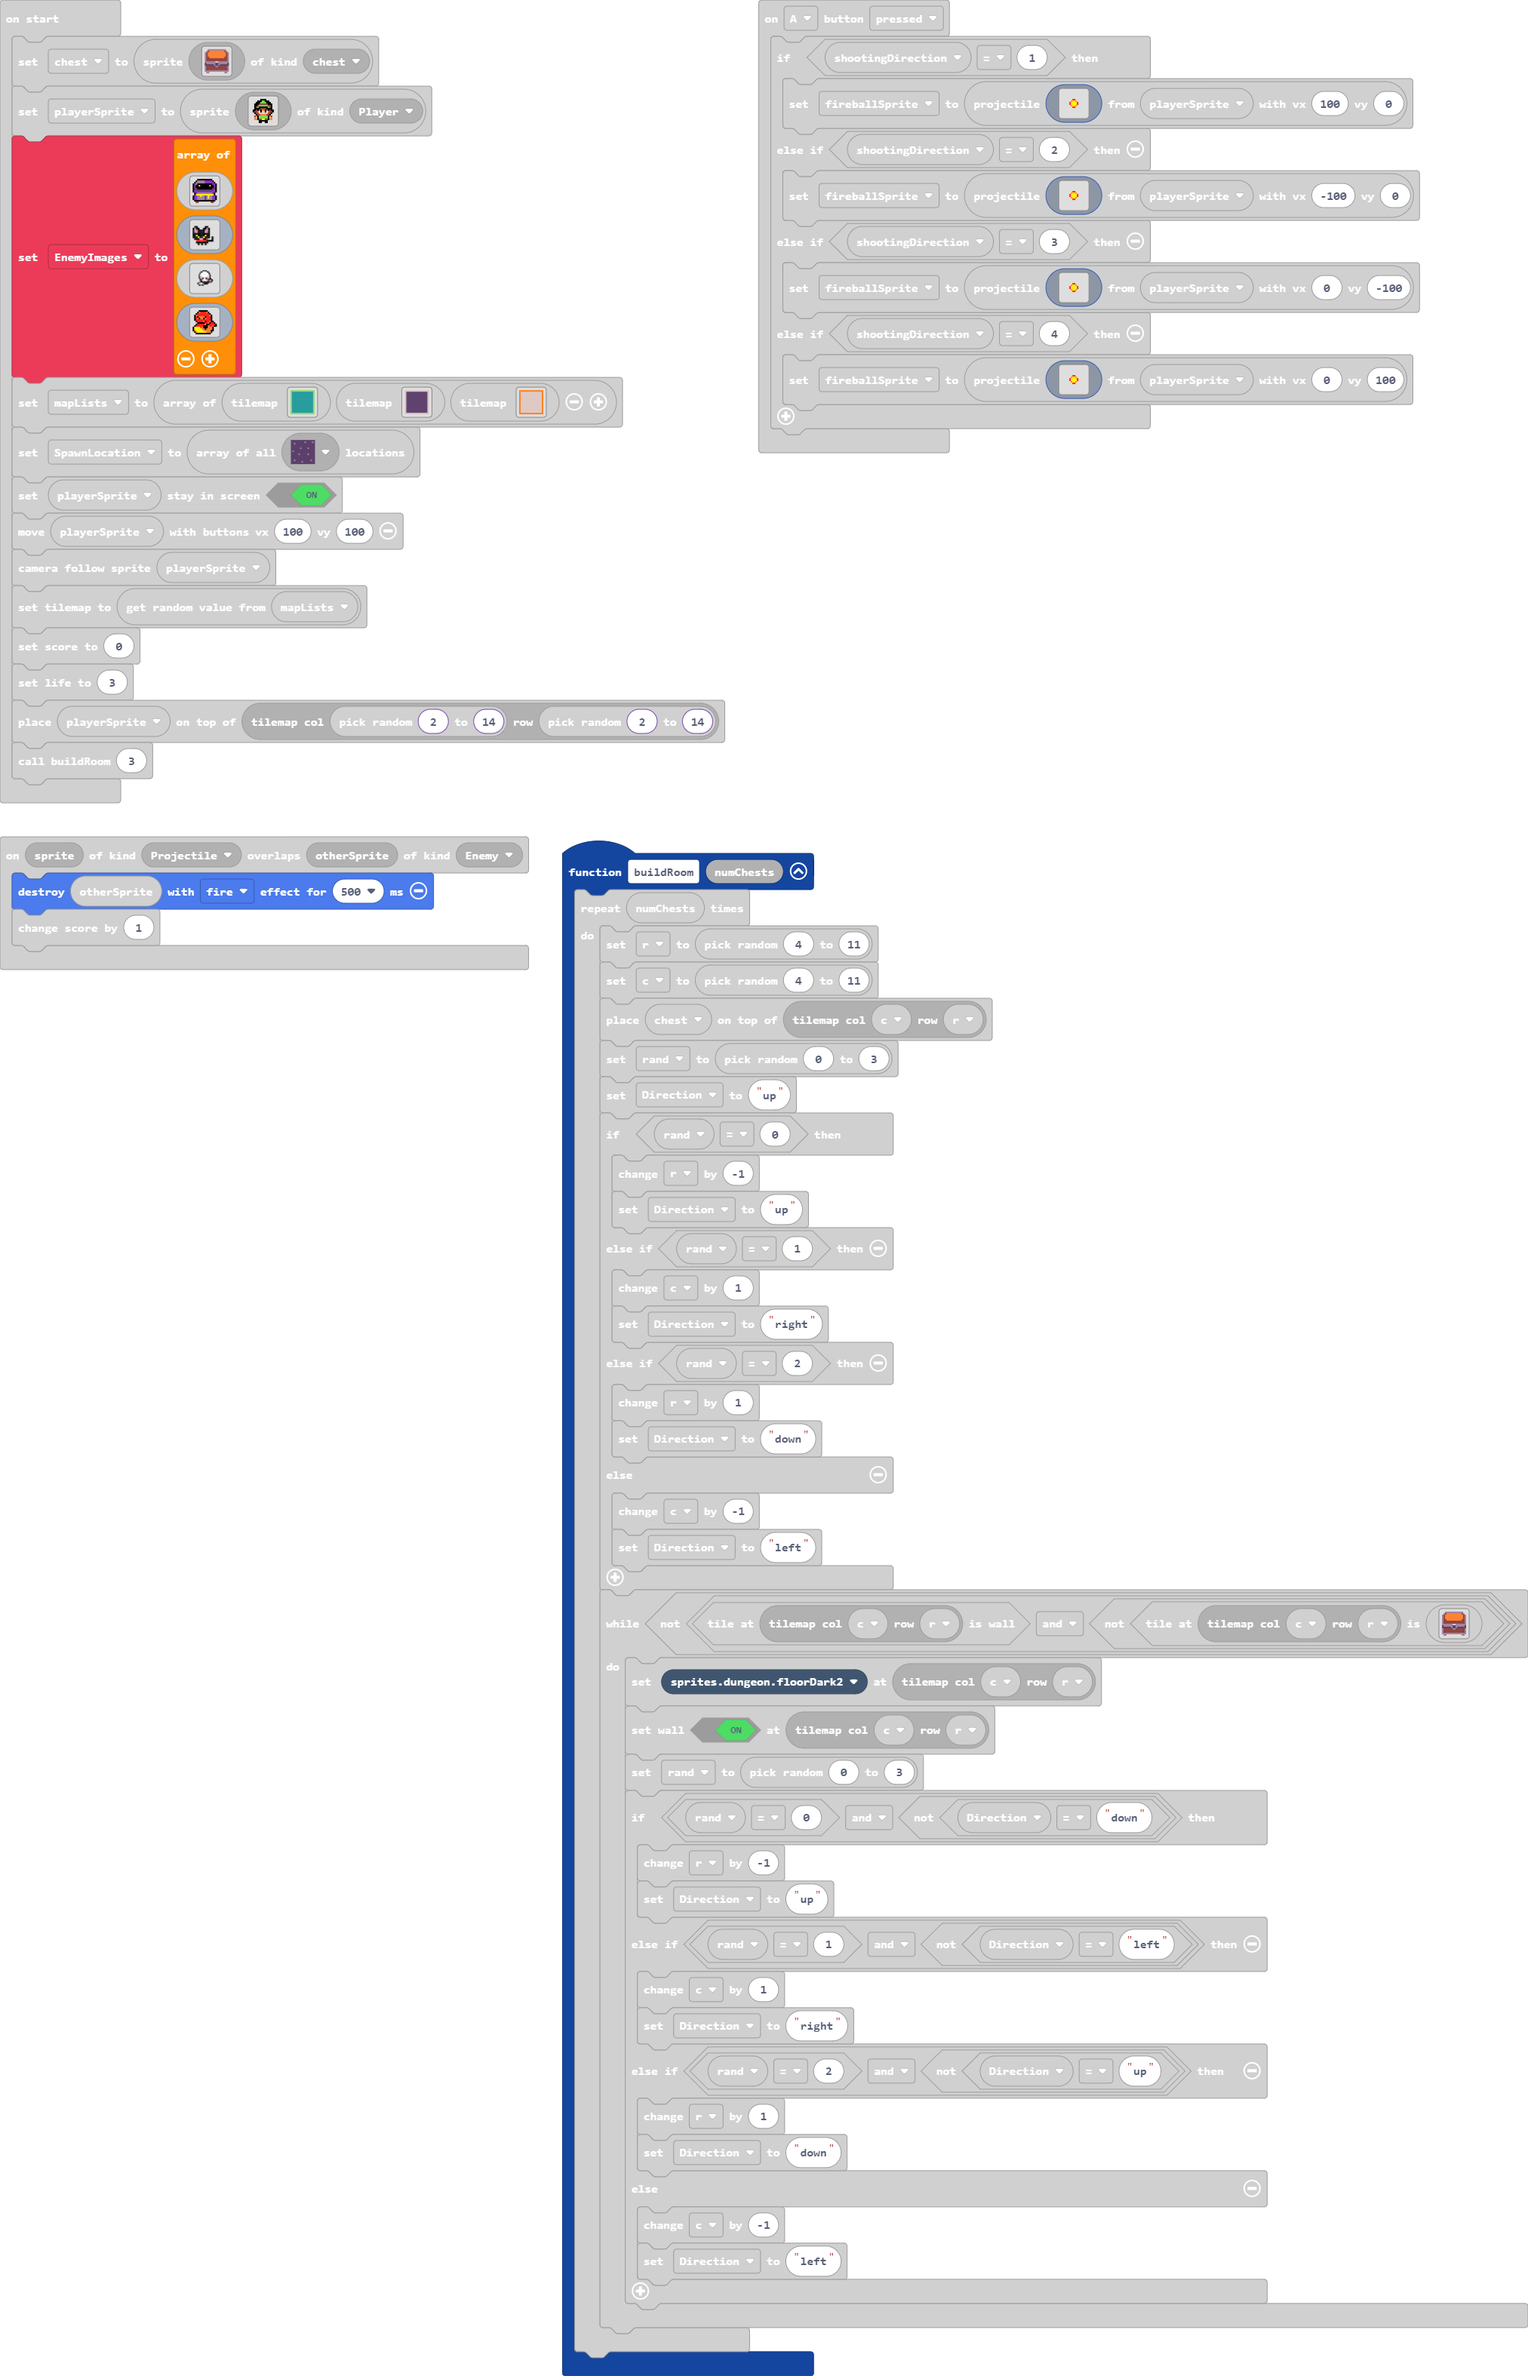
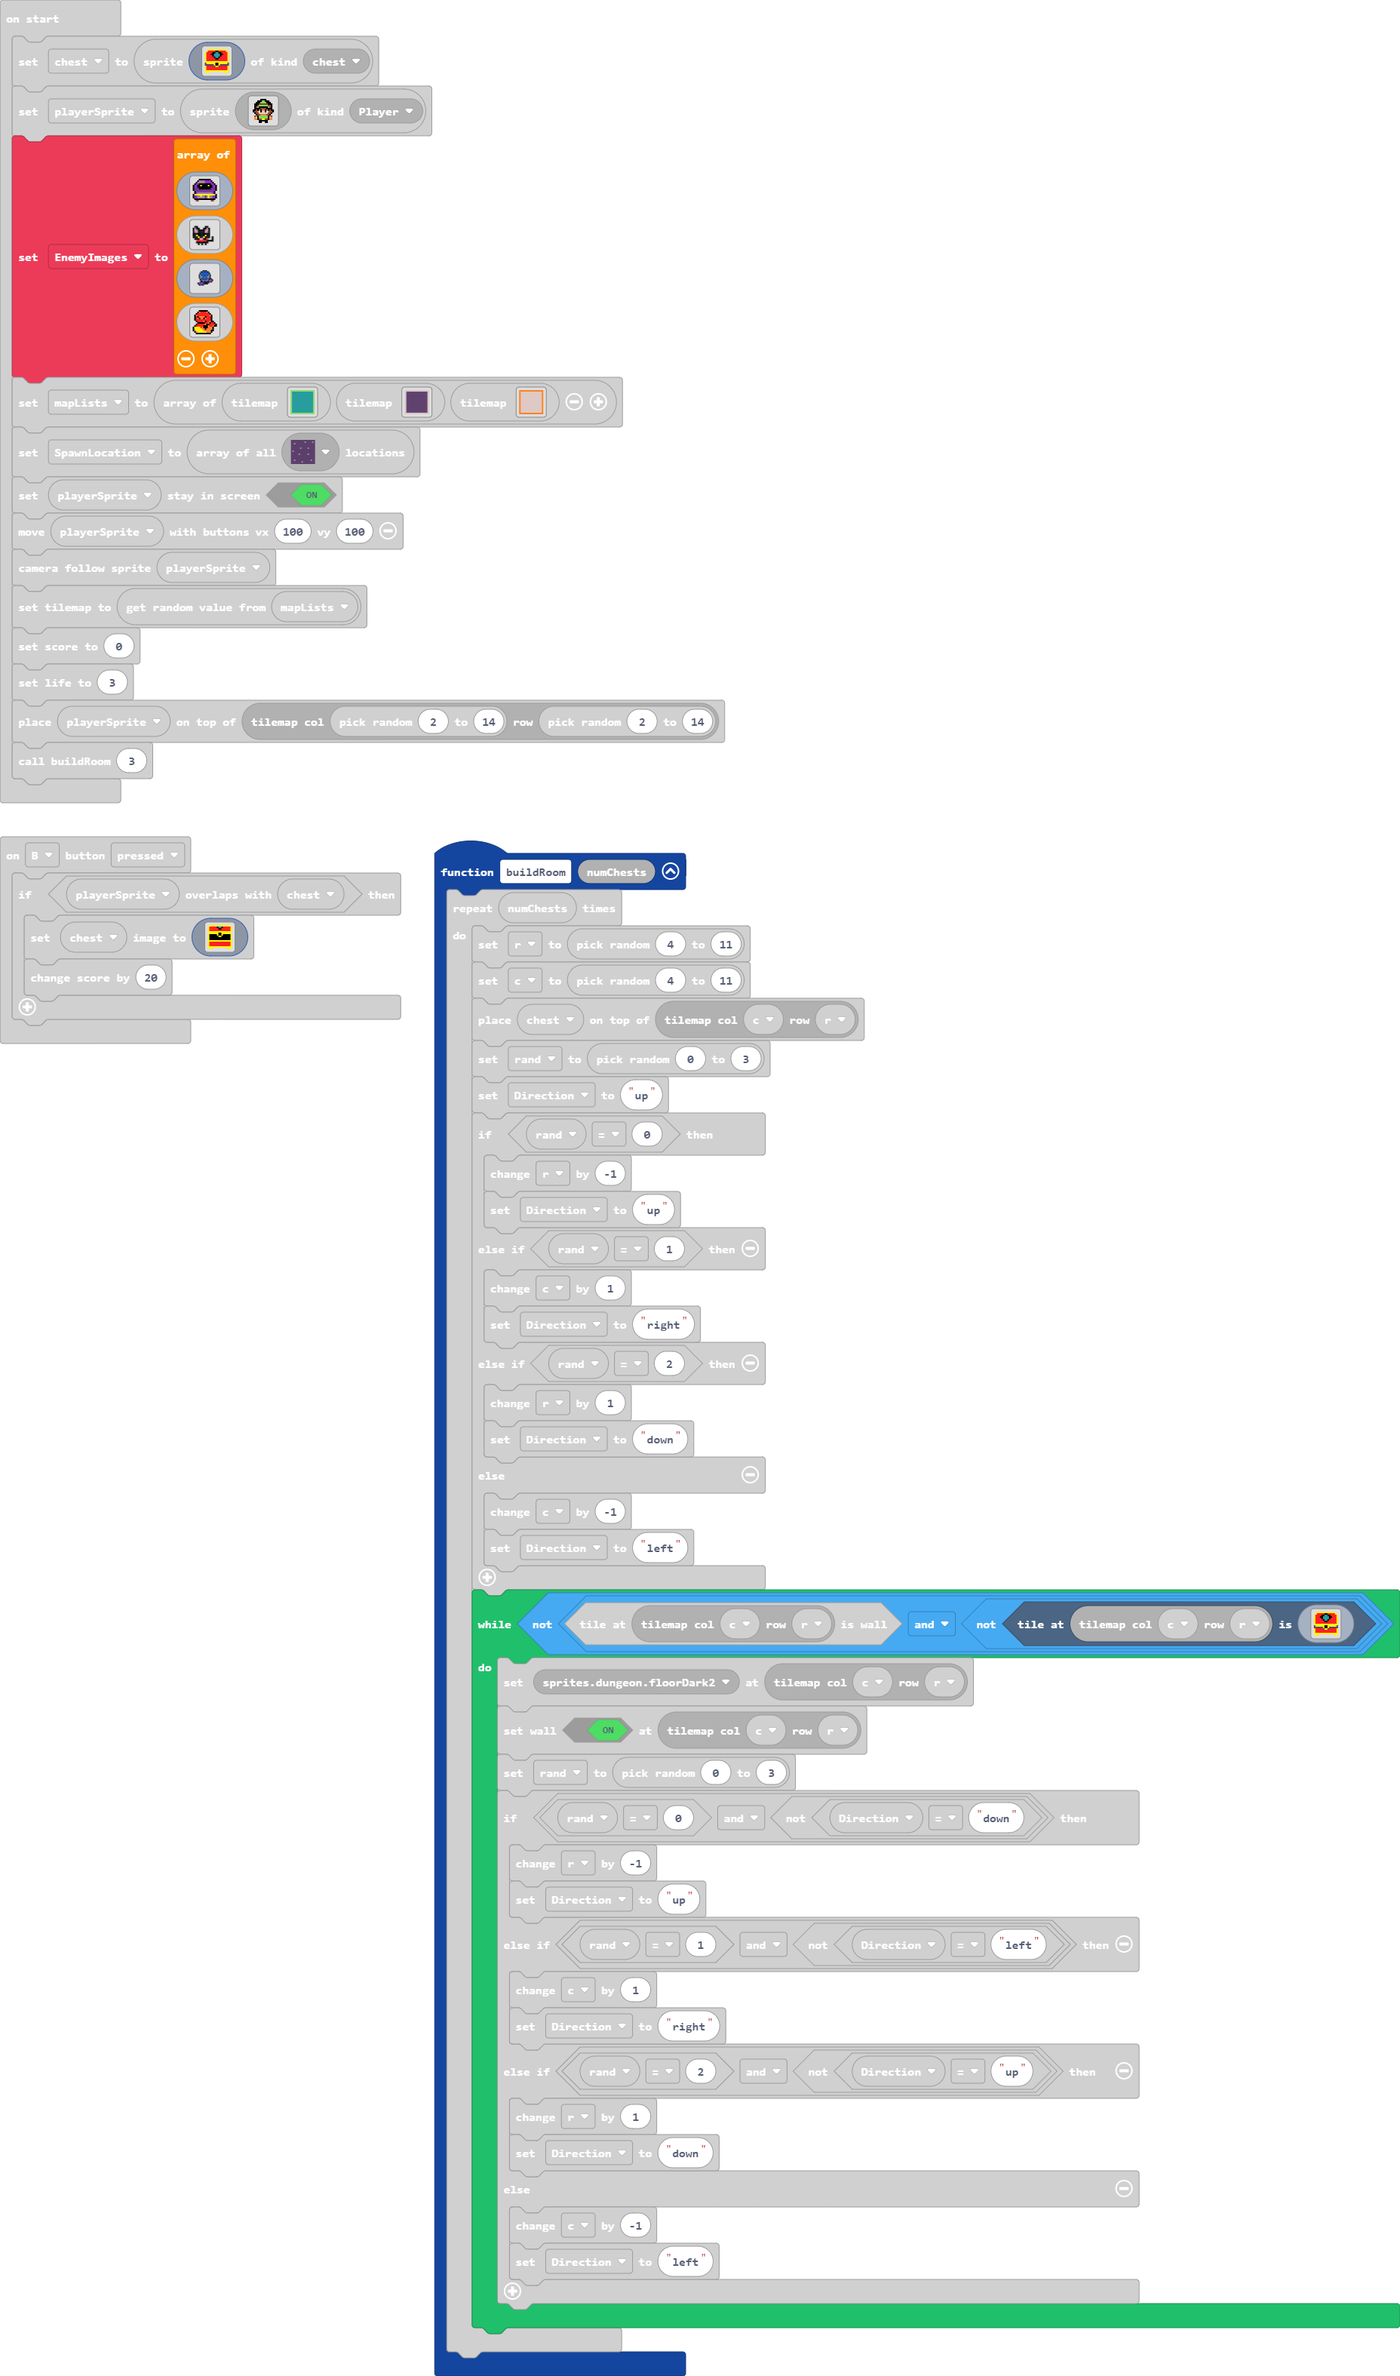
Update main.blocks, main.ts

diff --git a/main.ts b/main.ts
@@ -15,22 +15,22 @@ controller.up.onEvent(ControllerButtonEvent.Pressed, function () {
 controller.B.onEvent(ControllerButtonEvent.Pressed, function () {
     if (playerSprite.overlapsWith(chest)) {
         chest.setImage(img`
-            . b b b b b b b b b b b b b b . 
-            b e 4 4 4 4 4 4 4 4 4 4 4 4 4 b 
-            b e 4 4 4 4 4 4 4 4 4 4 4 4 e b 
-            b e e 4 4 4 4 4 4 4 4 4 4 e e b 
-            b b b b b b b d d b b b b b b b 
-            . b b b b b b c c b b b b b b . 
-            b c c c c c b c c b c c c c c b 
-            b c c c c c c b b c c c c c c b 
-            b c c c c c c c c c c c c c c b 
-            b c c c c c c c c c c c c c c b 
-            b b b b b b b b b b b b b b b b 
-            b e e e e e e e e e e e e e e b 
-            b e e e e e e e e e e e e e e b 
-            b c e e e e e e e e e e e e c b 
-            b b b b b b b b b b b b b b b b 
-            . b b . . . . . . . . . . b b . 
+            . 5 5 5 5 5 5 5 5 5 5 5 5 5 5 . 
+            5 2 2 2 2 2 f 6 6 f 2 2 2 2 2 5 
+            5 2 2 2 2 2 2 f f 2 2 2 2 2 2 5 
+            5 2 2 2 2 2 2 2 2 2 2 2 2 2 2 5 
+            5 5 5 5 5 5 5 5 5 5 5 5 5 5 5 5 
+            . 5 5 5 5 5 5 f f 5 5 5 5 5 5 . 
+            5 f f f f f 5 f f 5 f f f f f 5 
+            5 f f f f f f 5 5 f f f f f f 5 
+            5 f f f f f f f f f f f f f f 5 
+            5 f f f f f f f f f f f f f f 5 
+            5 5 5 5 5 5 5 5 5 5 5 5 5 5 5 5 
+            5 2 2 2 2 2 2 2 2 2 2 2 2 2 2 5 
+            5 2 2 2 2 2 2 2 2 2 2 2 2 2 2 5 
+            5 2 2 2 2 2 2 2 2 2 2 2 2 2 2 5 
+            5 5 5 5 5 5 5 5 5 5 5 5 5 5 5 5 
+            . 5 5 . . . . . . . . . . 5 5 . 
             `)
         info.changeScoreBy(20)
     }
@@ -180,22 +180,22 @@ function buildRoom (numChests: number) {
             Direction = "left"
         }
         while (!(tiles.tileAtLocationIsWall(tiles.getTileLocation(c, r)) && !(tiles.tileAtLocationEquals(tiles.getTileLocation(c, r), img`
-            . . b b b b b b b b b b b b . . 
-            . b e 4 4 4 4 4 4 4 4 4 4 e b . 
-            b e 4 4 4 4 4 4 4 4 4 4 4 4 e b 
-            b e 4 4 4 4 4 4 4 4 4 4 4 4 e b 
-            b e 4 4 4 4 4 4 4 4 4 4 4 4 e b 
-            b e e 4 4 4 4 4 4 4 4 4 4 e e b 
-            b e e e e e e e e e e e e e e b 
-            b e e e e e e e e e e e e e e b 
-            b b b b b b b d d b b b b b b b 
-            c b b b b b b c c b b b b b b c 
-            c c c c c c b c c b c c c c c c 
-            b e e e e e c b b c e e e e e b 
-            b e e e e e e e e e e e e e e b 
-            b c e e e e e e e e e e e e c b 
-            b b b b b b b b b b b b b b b b 
-            . b b . . . . . . . . . . b b . 
+            . . 5 5 5 5 5 5 5 5 5 5 5 5 . . 
+            . 5 2 2 2 2 2 f f 2 2 2 2 2 5 . 
+            5 2 2 2 2 f f 6 6 f f 2 2 2 2 5 
+            5 2 2 2 f f 6 6 6 6 f f 2 2 2 5 
+            5 2 2 2 2 f 6 6 6 6 f 2 2 2 2 5 
+            5 2 2 2 2 2 f 6 6 f 2 2 2 2 2 5 
+            5 2 2 2 2 2 2 f f 2 2 2 2 2 2 5 
+            5 2 2 2 2 2 2 2 2 2 2 2 2 2 2 5 
+            5 5 5 5 5 5 5 5 5 5 5 5 5 5 5 5 
+            c 5 5 5 5 5 5 f f 5 5 5 5 5 5 c 
+            c c c c c c 5 f f 5 c c c c c c 
+            5 2 2 2 2 2 c 5 5 c 2 2 2 2 2 5 
+            5 2 2 2 2 2 2 2 2 2 2 2 2 2 2 5 
+            5 2 2 2 2 2 2 2 2 2 2 2 2 2 2 5 
+            5 5 5 5 5 5 5 5 5 5 5 5 5 5 5 5 
+            . 5 5 . . . . . . . . . . 5 5 . 
             `)))) {
             tiles.setTileAt(tiles.getTileLocation(c, r), sprites.dungeon.floorDark2)
             tiles.setWallAt(tiles.getTileLocation(c, r), true)
@@ -230,42 +230,42 @@ let shootingDirection = 0
 let playerSprite: Sprite = null
 let chest: Sprite = null
 chest = sprites.create(img`
-    . . b b b b b b b b b b b b . . 
-    . b e 4 4 4 4 4 4 4 4 4 4 e b . 
-    b e 4 4 4 4 4 4 4 4 4 4 4 4 e b 
-    b e 4 4 4 4 4 4 4 4 4 4 4 4 e b 
-    b e 4 4 4 4 4 4 4 4 4 4 4 4 e b 
-    b e e 4 4 4 4 4 4 4 4 4 4 e e b 
-    b e e e e e e e e e e e e e e b 
-    b e e e e e e e e e e e e e e b 
-    b b b b b b b d d b b b b b b b 
-    c b b b b b b c c b b b b b b c 
-    c c c c c c b c c b c c c c c c 
-    b e e e e e c b b c e e e e e b 
-    b e e e e e e e e e e e e e e b 
-    b c e e e e e e e e e e e e c b 
-    b b b b b b b b b b b b b b b b 
-    . b b . . . . . . . . . . b b . 
+    . . 5 5 5 5 5 5 5 5 5 5 5 5 . . 
+    . 5 2 2 2 2 2 f f 2 2 2 2 2 5 . 
+    5 2 2 2 2 f f 6 6 f f 2 2 2 2 5 
+    5 2 2 2 f f 6 6 6 6 f f 2 2 2 5 
+    5 2 2 2 2 f 6 6 6 6 f 2 2 2 2 5 
+    5 2 2 2 2 2 f 6 6 f 2 2 2 2 2 5 
+    5 2 2 2 2 2 2 f f 2 2 2 2 2 2 5 
+    5 2 2 2 2 2 2 2 2 2 2 2 2 2 2 5 
+    5 5 5 5 5 5 5 5 5 5 5 5 5 5 5 5 
+    c 5 5 5 5 5 5 f f 5 5 5 5 5 5 c 
+    c c c c c c 5 f f 5 c c c c c c 
+    5 2 2 2 2 2 c 5 5 c 2 2 2 2 2 5 
+    5 2 2 2 2 2 2 2 2 2 2 2 2 2 2 5 
+    5 2 2 2 2 2 2 2 2 2 2 2 2 2 2 5 
+    5 5 5 5 5 5 5 5 5 5 5 5 5 5 5 5 
+    . 5 5 . . . . . . . . . . 5 5 . 
     `, SpriteKind.chest)
 playerSprite = sprites.create(assets.image`down`, SpriteKind.Player)
 let EnemyImages = [
 img`
-    . . . f f f f f f f f f f . . . 
+    . . . . f f f f f f f f . . . . 
+    . . . f b b b b a a a a f . . . 
     . . f b b b b b a a a a a f . . 
-    . f b b b b b b a a a a a a f . 
-    f a b f f f f f f f f f f a a f 
-    f a f f 5 f f f f f f 5 f f a f 
-    f a f f f f f f f f f f f f a f 
-    f c c f f f f f f f f f f c c f 
+    . f a a f f f f f f f f a a f . 
+    f a a f f 5 f f f f 5 f f a a f 
+    f a a f f f f f f f f f f a a f 
+    f c c a f f f f f f f f a c c f 
     f a c c c c c c c c c c c a a f 
-    f a a a a a a a a a a a a a a f 
+    . f a a a a a a a a a a a a f . 
     . f a b b b b b b b b b b a f . 
-    . f 5 5 5 5 5 5 5 5 5 5 5 5 f . 
+    f 5 5 5 5 5 5 5 5 5 5 5 5 5 5 f 
     f a a b b 5 b b c b 5 b b a a f 
     f a a b b b b b c b 5 b b a a f 
-    f a a b b b b b c b b b b a a f 
     . f f f f f f f f f f f f f f . 
     . . e e . . . . . . . . e e . . 
+    . . . . . . . . . . . . . . . . 
     `,
 img`
     . . . . . . . . . . . . . . 
@@ -289,20 +289,20 @@ img`
     ........................
     ........................
     ..........ffff..........
-    ........ff1111ff........
-    .......fb111111bf.......
-    .......f11111111f.......
-    ......fd11111111df......
-    ......fdd111111ddf......
-    ......fbdd1111dddf......
-    ......fcdbfddfbdbf......
-    .......fbcf11fcbfff.....
-    .......ffb1111bcfbcf....
-    ........fcdb1bdfbbbf....
+    ........ff8888ff........
+    .......fa888888af.......
+    .......f88888888f.......
+    ......f6888888886f......
+    ......f6688888866f......
+    ......fa668888666f......
+    ......fc6af66fa6af......
+    .......facf88fcafff.....
+    .......ffa8888acfacf....
+    ........fc6a8a6faaaf....
     .......ffffffffffcf.....
-    .....fcb1bcfffff........
-    .....f1b1b1ffff.........
-    ......ffbff.............
+    .....fca8acfffff........
+    .....f8a8a8ffff.........
+    ......ffaff.............
     ........................
     ........................
     ........................
